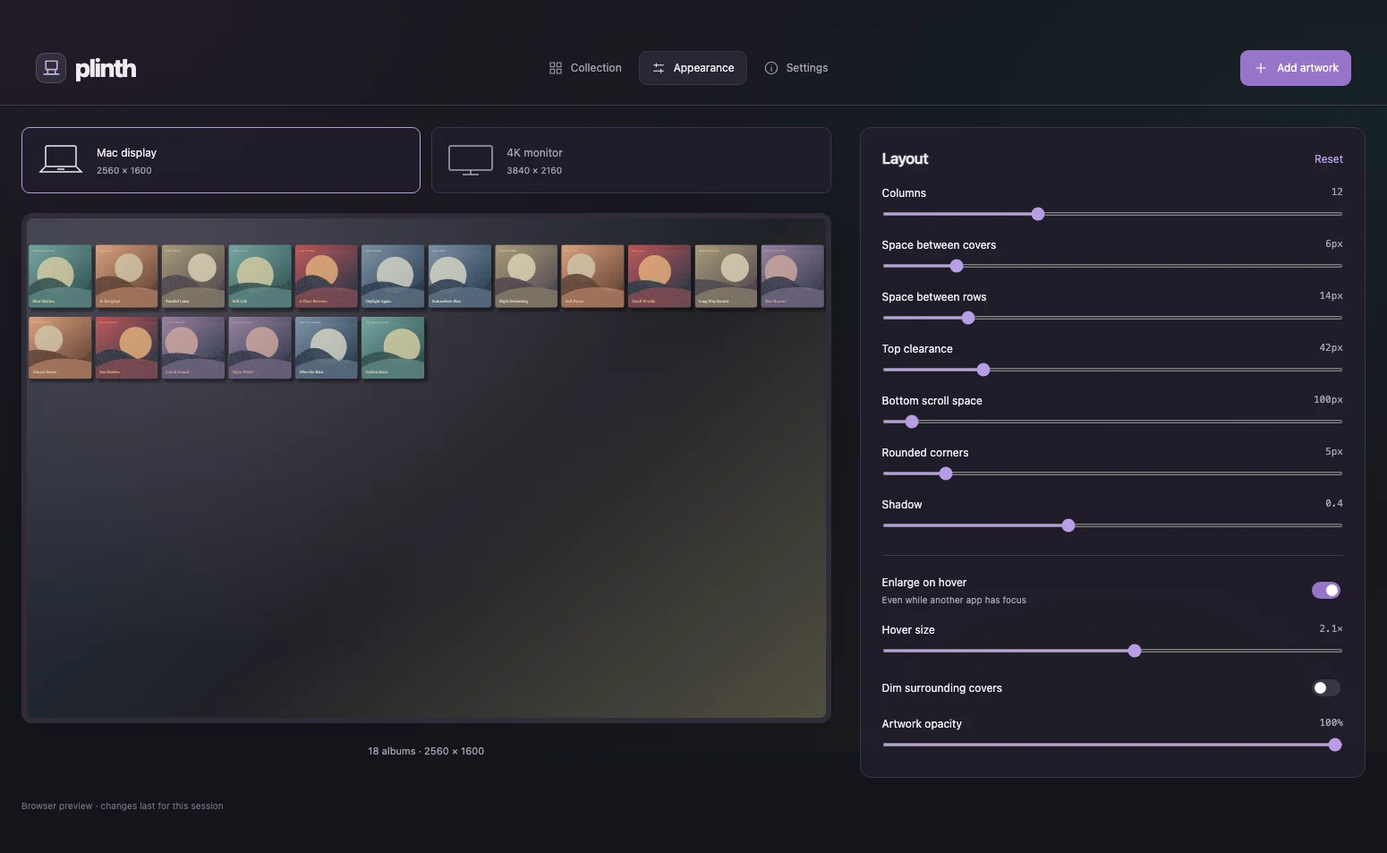
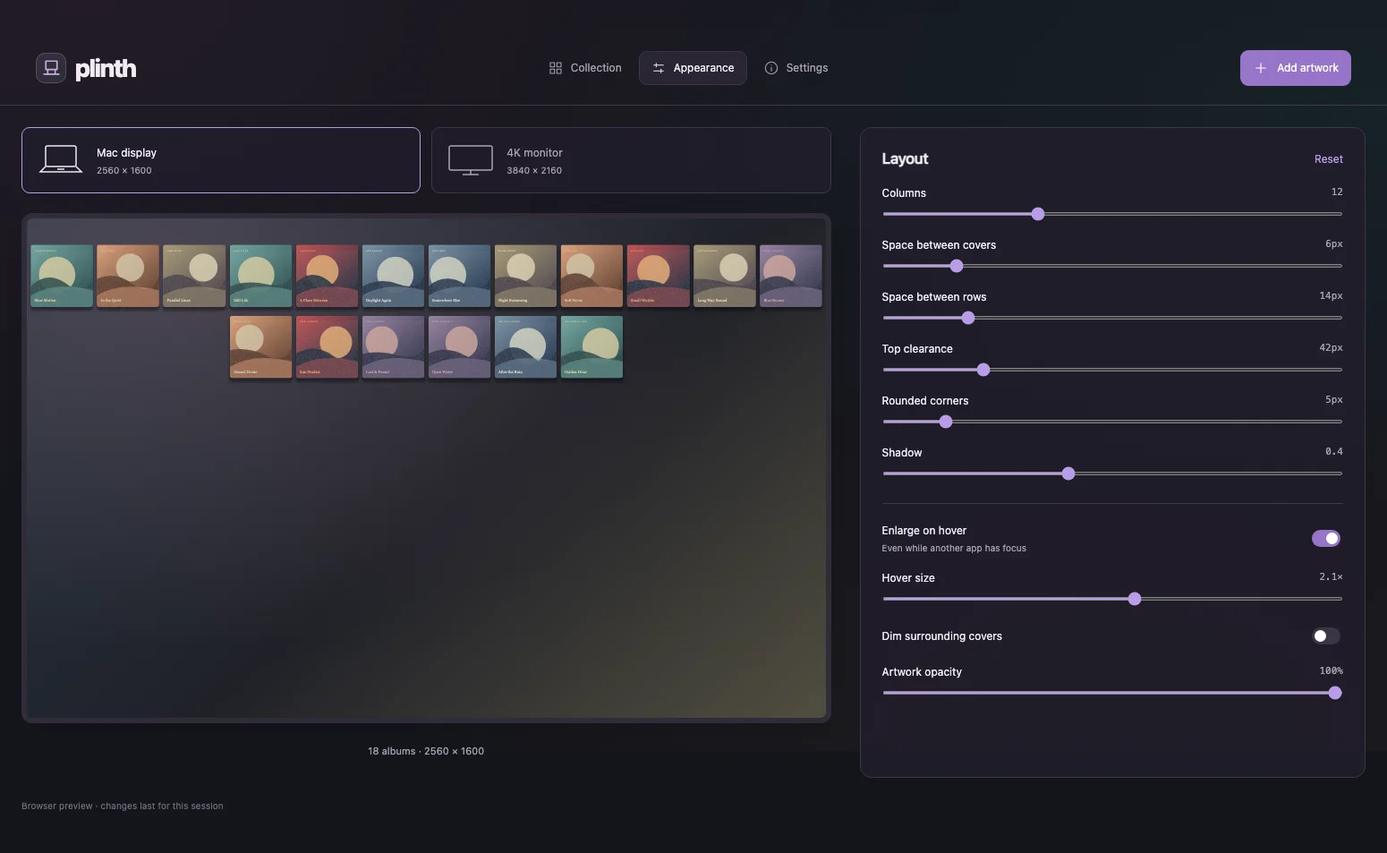
Remove desktop scrolling and center incomplete album rows

diff --git a/src/app.css b/src/app.css
@@ -6,7 +6,7 @@ body{margin:0;background:var(--background);background-attachment:fixed;color:var
 .empty-state{min-height:370px;display:flex;flex-direction:column;align-items:center;justify-content:center;text-align:center;gap:18px}.empty-state .eyebrow{margin:0}.empty-state h2{font-size:25px}.empty-state p{font-size:13px;line-height:1.8;color:var(--muted)}.empty-art{width:64px;height:64px;background:var(--paper);border:1px solid var(--line);border-radius:16px;display:grid;place-items:center;color:var(--accent)}.empty-art svg{width:30px;height:30px}.actions{display:flex;gap:10px}.panel{background:var(--paper);border:1px solid var(--line);border-radius:13px;padding:24px}.panel-heading{display:flex;align-items:center;justify-content:space-between;margin-bottom:21px}.appearance-layout{display:grid;grid-template-columns:minmax(0,1.6fr) minmax(310px,1fr);gap:32px}.preview-column{position:sticky;top:25px;align-self:start}.section-label{display:flex;justify-content:space-between;color:var(--faint);font-size:9px;letter-spacing:1px;margin-bottom:16px}.section-label>span:last-child{letter-spacing:0}.monitor-preview{position:relative;border:6px solid #302c38;border-bottom-width:16px;border-radius:14px;background:radial-gradient(ellipse at 15% 10%,#735c6880,transparent 60%),linear-gradient(140deg,#253543,#202128 55%,#514e40);height:350px;overflow:hidden;box-shadow:0 16px 35px #0002}.preview-menubar{display:flex;gap:8px;align-items:center;font-size:7px;color:#ddd;background:#ffffff0a;height:15px;padding:0 7px}.preview-menubar svg{width:9px;height:9px}.preview-clock{margin-left:auto}.preview-art{display:grid;align-content:start;max-height:calc(100% - 15px);overflow:auto}.preview-art img{width:100%;aspect-ratio:1;object-fit:cover;transition:transform .2s;position:relative}.preview-art img:hover{transform:scale(var(--preview-scale));z-index:10}.preview-empty{font-size:12px;color:#bbb;grid-column:1/-1;padding:80px 0;text-align:center}.preview-dock{position:absolute;bottom:6px;left:50%;transform:translateX(-50%);display:flex;gap:6px;padding:5px 7px;border:1px solid #ffffff22;background:#ffffff18;border-radius:8px;backdrop-filter:blur(12px)}.preview-dock>span{display:block;width:18px;height:18px;border-radius:5px;background:#90b1be88}.preview-dock>span:nth-child(2){background:#b48caf88}.preview-dock>span:nth-child(3){background:#b9b19188}.preview-dock>span:nth-child(4){background:#91b9a988}.monitor-foot{width:100px;height:29px;background:linear-gradient(#302c38,#403b46);margin:0 auto;border-radius:0 0 12px 12px;clip-path:polygon(30% 0,70% 0,77% 82%,100% 90%,100% 100%,0 100%,0 90%,23% 82%)}.preview-note{color:var(--muted);font-size:11px;display:flex;align-items:center;justify-content:center;gap:8px;line-height:1.6;margin:22px 0}.preview-note svg{width:14px;height:14px}.feature-note{display:flex;gap:15px;border-top:1px solid var(--line);padding-top:25px;margin-top:32px;color:var(--muted)}.feature-note>svg{color:var(--accent)}.feature-note strong{font-size:12px;font-weight:500;color:var(--ink)}.feature-note p{font-size:12px;line-height:1.8;margin-top:8px;max-width:390px}.segmented{display:flex;border:1px solid var(--line);border-radius:8px;padding:3px;gap:3px;margin-bottom:9px}.segmented button{flex:1;padding:7px 4px;font-size:11px;border:0;border-radius:5px;color:var(--muted)}.segmented button.chosen{background:var(--paper-strong);color:var(--ink)}.field-note{font-size:11px;color:var(--muted);line-height:1.7}.slider-field{margin-top:20px;gap:9px}.slider-field>span{display:flex;justify-content:space-between;font-size:12px}.slider-field output{font:11px ui-monospace,monospace;color:var(--muted)}input[type=range]{width:100%;height:4px;margin:5px 0;padding:0;accent-color:var(--accent);cursor:pointer}.toggle-row{display:flex;align-items:center;justify-content:space-between;gap:20px;margin-top:22px;font-size:12px}.toggle-row small{display:block;font-size:10px;color:var(--muted);margin-top:6px}.switch{appearance:none;flex:0 0 auto;width:32px;height:19px;border-radius:20px;padding:0;background:var(--line);border:0;position:relative;cursor:pointer}.switch:after{content:'';display:block;width:13px;height:13px;border-radius:50%;background:#fff;position:absolute;top:3px;left:3px;transition:transform .15s}.switch:checked{background:var(--accent-bg)}.switch:checked:after{transform:translateX(13px)}.control-divider{border-top:1px solid var(--line);margin-top:26px}.settings-grid{display:grid;grid-template-columns:1fr 1fr;gap:22px}.settings-panel h2{margin-bottom:12px;font-size:20px}.settings-panel>p.description{font-size:13px;line-height:1.85;color:var(--muted);margin-bottom:24px}.setting-row{display:flex;align-items:center;justify-content:space-between;gap:16px;margin:25px 0}.setting-row select{max-width:60%}.storage-summary{display:flex;gap:45px;margin:24px 0 30px;color:var(--muted);font-size:11px}.storage-summary strong{display:block;font-size:30px;color:var(--ink);font-weight:500;letter-spacing:-1px;margin-bottom:6px}.settings-panel>button{font-size:12px;margin-bottom:15px}.shortcut-row{border-top:1px solid var(--line);padding-top:16px;margin-bottom:20px;display:flex;align-items:center;justify-content:space-between;font-size:12px}
 .banner{margin:15px 44px 0;border:1px solid #cf739066;border-radius:8px;padding:10px 14px;font-size:12px;display:flex;align-items:center;justify-content:space-between;gap:16px}.banner.error{color:var(--danger);background:var(--paper)}.banner>span{white-space:pre-wrap;max-height:140px;overflow:auto}.toast{position:fixed;bottom:24px;left:50%;transform:translateX(-50%);z-index:80;padding:13px 18px;border:1px solid var(--line);border-radius:10px;background:var(--paper-strong);box-shadow:0 10px 40px #0004;display:flex;align-items:center;gap:10px;font-size:12px;max-width:90vw}.toast svg{color:#83c9ac}.drop-overlay{position:fixed;inset:8px;z-index:100;border:2px dashed var(--accent);border-radius:15px;background:#211c2bed;backdrop-filter:blur(15px);display:flex;flex-direction:column;align-items:center;justify-content:center;gap:22px;pointer-events:none}.drop-overlay>svg{width:45px;height:45px;color:var(--accent)}.drop-overlay p{color:var(--muted)}.import-progress{position:fixed;bottom:25px;left:50%;transform:translateX(-50%);z-index:90;background:var(--paper-strong);border:1px solid var(--line);border-radius:10px;padding:15px 22px;font-size:12px;display:flex;gap:12px;align-items:center}.import-progress>span{width:13px;height:13px;border-radius:50%;border:2px solid var(--line);border-top-color:var(--accent);animation:spin 1s linear infinite}@keyframes spin{to{transform:rotate(360deg)}}.visually-hidden{position:absolute;width:1px;height:1px;clip-path:inset(50%);overflow:hidden;white-space:nowrap}
 dialog{width:min(510px,calc(100vw - 40px));padding:26px;border:1px solid var(--line);border-radius:16px;background:var(--paper-strong);color:var(--ink);box-shadow:0 25px 100px #0007;max-height:90vh;overflow:auto}dialog::backdrop{background:#0006;backdrop-filter:blur(8px)}.modal-heading{display:flex;justify-content:space-between;align-items:center;margin-bottom:24px}.editor-top{display:flex;gap:23px;align-items:center;margin-bottom:26px}.editor-top>img{width:130px;height:130px;object-fit:cover;border-radius:7px;box-shadow:0 8px 20px #0003}.editor-top>div{min-width:0}.editor-top h3{font-size:20px;overflow-wrap:anywhere;font-weight:550;letter-spacing:-.4px}.editor-top p{color:var(--muted);font-size:12px;margin:7px 0 18px}dialog form>label{margin:18px 0;position:relative}.two-fields{display:grid;grid-template-columns:1.2fr 1fr;gap:14px}.optional{position:absolute;right:0;color:var(--faint);font-size:10px}.editor-actions{display:flex;align-items:center;justify-content:space-between;border-top:1px solid var(--line);margin-top:24px;padding-top:20px}.danger{color:var(--danger)}
-.desktop-document,.desktop-document body{background:transparent!important;min-width:0;overflow:hidden}.desktop-document #app{height:100vh}.desktop-surface{height:100vh;overflow-y:auto;scrollbar-width:none;background:transparent}.desktop-surface::-webkit-scrollbar{display:none}.desktop-grid{display:grid;grid-template-columns:repeat(var(--columns),minmax(0,1fr));gap:var(--row-gap) var(--gap);padding:var(--top) calc(var(--gap) / 2) var(--bottom);opacity:var(--opacity)}.desktop-cell{position:relative;min-width:0;aspect-ratio:1}.desktop-cover{width:100%;height:100%;display:block;border:0;padding:0;position:relative;box-shadow:4px 5px 4px rgb(0 0 0 / var(--shadow));border-radius:var(--radius);transition:filter .2s;background:none!important}.desktop-cover>img{display:block;width:100%;height:100%;object-fit:cover;border-radius:inherit;pointer-events:none}.desktop-cell:has(.enlarged){z-index:10}.desktop-cover.enlarged{border-radius:0}.desktop-cover.dimmed{filter:brightness(.65)}.desktop-error{position:fixed;bottom:30px;left:50%;transform:translateX(-50%);max-width:600px;background:#24202fec;color:white;padding:15px 22px;border-radius:10px;font-size:12px}
+.desktop-document,.desktop-document body{background:transparent!important;min-width:0;overflow:hidden}.desktop-document #app{height:100vh}.desktop-surface{height:100vh;overflow:clip;background:transparent}.desktop-grid{display:flex;flex-wrap:wrap;justify-content:center;gap:var(--row-gap) var(--gap);padding:var(--top) max(6px,calc(var(--gap) / 2)) 0;opacity:var(--opacity)}.desktop-cell{position:relative;flex:0 0 calc((100% - (var(--columns) - 1)*var(--gap)) / var(--columns));min-width:0;aspect-ratio:1}.desktop-cover{width:100%;height:100%;display:block;border:0;padding:0;position:relative;box-shadow:0 5px 4px rgb(0 0 0 / var(--shadow));border-radius:var(--radius);transition:filter .2s;background:none!important}.desktop-cover>img{display:block;width:100%;height:100%;object-fit:cover;border-radius:inherit;pointer-events:none}.desktop-cell:has(.enlarged){z-index:10}.desktop-cover.enlarged{border-radius:0}.desktop-cover.dimmed{filter:brightness(.65)}.desktop-error{position:fixed;bottom:30px;left:50%;transform:translateX(-50%);max-width:600px;background:#24202fec;color:white;padding:15px 22px;border-radius:10px;font-size:12px}
 @media(min-width:1350px){.album-grid{grid-template-columns:repeat(7,minmax(0,1fr))}}@media(max-width:1000px){header{padding-inline:25px;gap:14px}main{padding:30px 28px 0}.album-grid{grid-template-columns:repeat(5,minmax(0,1fr));gap:24px 18px}h1{font-size:29px}nav button{padding:9px}.appearance-layout{gap:22px;grid-template-columns:minmax(0,1fr) 300px}.monitor-preview{height:280px}}@media(max-width:760px){header{flex-wrap:wrap;height:auto;padding:18px 20px;gap:16px}header nav{order:3;width:100%}nav button{flex:1}.titlebar{padding-left:20px}.local-indicator{display:none}main{padding:28px 20px 0}.page-heading{align-items:start;gap:14px}.status-pill{font-size:0;padding:9px;gap:5px}.status-pill svg{margin:0}.album-grid{grid-template-columns:repeat(3,minmax(0,1fr))}.collection-meta,.search kbd{display:none}.search input{width:100px}.collection-toolbar{gap:10px}.toolbar-right{gap:0}.collection-tabs{gap:0}.import-strip{align-items:start;flex-direction:column}.appearance-layout,.settings-grid{grid-template-columns:1fr}.preview-column{position:static}.monitor-preview{height:320px}footer>span:last-child{display:none}.banner{margin-inline:20px}.album-open{opacity:1}.collection-toolbar select{max-width:85px}.titlebar{display:none}}@media(prefers-reduced-motion:reduce){*,*::before,*::after{transition:none!important;animation:none!important}}
 
 .modal-error{color:var(--danger);font-size:12px;line-height:1.6;margin-bottom:18px;white-space:pre-wrap}

diff --git a/tests/app.spec.ts b/tests/app.spec.ts
@@ -15,7 +15,7 @@ test('collection search, metadata edits, hiding and removal',async({page})=>{
 })
 test('appearance updates preview and theme without errors',async({page})=>{
  await page.goto('/?demo=1');await page.getByRole('button',{name:'Appearance',exact:true}).click()
- const slider=page.getByRole('slider',{name:'Columns',exact:true});await slider.fill('8');await expect(page.locator('.preview-render .desktop-grid')).toHaveCSS('grid-template-columns',/.* /)
+ const slider=page.getByRole('slider',{name:'Columns',exact:true});await slider.fill('8');await expect(page.locator('.preview-render .desktop-grid')).toHaveCSS('--columns','8')
  await expect(page.locator('.slider-field').filter({has:slider}).locator('output')).toHaveText('8')
  await page.getByRole('button',{name:'Settings',exact:true}).click();await page.getByRole('button',{name:'Light',exact:true}).click();await expect(page.locator('html')).toHaveAttribute('data-theme','light')
 })
@@ -88,4 +88,33 @@ test('quit modal defaults to hide and provides keyboard actions without leaking 
  await show();await page.keyboard.press('/');await expect(page.getByRole('button',{name:'Hide window',exact:true})).toBeFocused()
  await page.keyboard.press('Escape')
  await page.keyboard.down('Control');await page.keyboard.down('q');await page.keyboard.down('q');await expect(dialog).toBeVisible();await page.keyboard.up('q');await page.keyboard.up('Control')
+})
+
+test('desktop rows have equal margins, center incomplete rows, and cannot scroll',async({page})=>{
+ for(const width of [1180,1550,2560]) {
+  await page.setViewportSize({width,height:180})
+  await page.goto('/?demo=1&desktop=1')
+  await expect(page.locator('.desktop-cell')).toHaveCount(18)
+  const rows=await page.locator('.desktop-cell').evaluateAll(cells=>{
+   const rows:Record<string,{left:number;right:number;width:number}[]>={}
+   for(const cell of cells){const r=cell.getBoundingClientRect();(rows[r.top]??=[]).push({left:r.left,right:r.right,width:r.width})}
+   return Object.values(rows)
+  })
+  for(const row of rows){expect(Math.abs(row[0].left-(width-row.at(-1)!.right))).toBeLessThan(1);for(const cell of row)expect(cell.width).toBeCloseTo(rows[0][0].width,1)}
+  const surface=page.locator('.desktop-surface')
+  await expect(surface).toHaveCSS('overflow','clip')
+  await page.mouse.move(width/2,100);await page.mouse.wheel(0,600)
+  await surface.evaluate(el=>el.scrollTo(0,600))
+  expect(await surface.evaluate(el=>el.scrollTop)).toBe(0)
+  expect(await page.evaluate(()=>window.scrollY)).toBe(0)
+ }
+ await page.goto('/?demo=1');await page.getByRole('button',{name:'Appearance',exact:true}).click()
+ await expect(page.getByRole('slider',{name:'Bottom scroll space'})).toHaveCount(0)
+ await page.getByRole('slider',{name:'Columns',exact:true}).fill('7')
+ const rows=await page.locator('.preview-render .desktop-cell').evaluateAll(cells=>{
+  const rows:Record<string,DOMRect[]>={};for(const cell of cells){const r=cell.getBoundingClientRect();(rows[r.top]??=[]).push(r)}
+  return Object.values(rows).map(row=>({center:(row[0].left+row.at(-1)!.right)/2,count:row.length}))
+ })
+ expect(rows.map(row=>row.count)).toEqual([7,7,4])
+ for(const row of rows)expect(row.center).toBeCloseTo(rows[0].center,1)
 })

diff --git a/src/App.svelte b/src/App.svelte
@@ -123,7 +123,7 @@
      <div class="preview-render" style={`width:${screen.width}px;height:${screen.height}px;transform:scale(${previewWidth/screen.width})`}><Desktop {library} preview forcedLayout={layout} viewportHeight={screen.height}/></div>
     </div></div><p class="preview-note">{enabled.length} albums · {screen.pixels}</p></section>
     <section class="controls panel"><div class="panel-heading"><h2>Layout</h2><button class="text-button" onclick={resetLayout}>Reset</button></div>
-    {#each [{key:'columns',label:'Columns',min:3,max:30,step:1,unit:''},{key:'gap',label:'Space between covers',min:0,max:40,step:1,unit:'px'},{key:'rowGap',label:'Space between rows',min:0,max:80,step:1,unit:'px'},{key:'top',label:'Top clearance',min:0,max:200,step:1,unit:'px'},{key:'bottom',label:'Bottom scroll space',min:0,max:2000,step:10,unit:'px'},{key:'radius',label:'Rounded corners',min:0,max:40,step:1,unit:'px'},{key:'shadow',label:'Shadow',min:0,max:1,step:.05,unit:''}] as control}<label class="slider-field"><span>{control.label}<output>{layout[control.key as keyof Layout]}{control.unit}</output></span><input type="range" aria-label={control.label} min={control.min} max={control.max} step={control.step} value={layout[control.key as keyof Layout]} oninput={(e)=>changeLayout(control.key as keyof Layout,Number(e.currentTarget.value))}/></label>{/each}
+    {#each [{key:'columns',label:'Columns',min:3,max:30,step:1,unit:''},{key:'gap',label:'Space between covers',min:0,max:40,step:1,unit:'px'},{key:'rowGap',label:'Space between rows',min:0,max:80,step:1,unit:'px'},{key:'top',label:'Top clearance',min:0,max:200,step:1,unit:'px'},{key:'radius',label:'Rounded corners',min:0,max:40,step:1,unit:'px'},{key:'shadow',label:'Shadow',min:0,max:1,step:.05,unit:''}] as control}<label class="slider-field"><span>{control.label}<output>{layout[control.key as keyof Layout]}{control.unit}</output></span><input type="range" aria-label={control.label} min={control.min} max={control.max} step={control.step} value={layout[control.key as keyof Layout]} oninput={(e)=>changeLayout(control.key as keyof Layout,Number(e.currentTarget.value))}/></label>{/each}
     <div class="control-divider"></div><label class="toggle-row"><span>Enlarge on hover<small>Even while another app has focus</small></span><input class="switch" type="checkbox" bind:checked={settings.hoverEnabled} onchange={persist}/></label><label class="slider-field"><span>Hover size<output>{settings.hoverScale.toFixed(1)}×</output></span><input aria-label="Hover size" type="range" min="1" max="3" step=".1" bind:value={settings.hoverScale} oninput={persist}/></label><label class="toggle-row"><span>Dim surrounding covers</span><input class="switch" type="checkbox" bind:checked={settings.dimOthers} onchange={persist}/></label><label class="slider-field"><span>Artwork opacity<output>{Math.round(settings.opacity*100)}%</output></span><input aria-label="Artwork opacity" type="range" min=".1" max="1" step=".05" bind:value={settings.opacity} oninput={persist}/></label></section></div>
    {:else}
     <section class="panel settings-compact" aria-label="Settings">

diff --git a/src/lib/Desktop.svelte b/src/lib/Desktop.svelte
@@ -12,12 +12,10 @@
  let hovered=''
  let grid:HTMLDivElement
  let error=''
- let lastPointer={x:0,y:0,visible:false}
  $: settings=library.settings
  $: layout=forcedLayout??(width>1900?settings.wideLayout:settings.layout)
  $: albums=ordered(library.albums.filter(a=>a.enabled),settings.sort,settings.shuffleSeed)
  function hoverAt(x:number,y:number,visible:boolean) {
-  lastPointer={x,y,visible}
   if(!visible || !settings.hoverEnabled) {hovered='';return}
   // Use the unscaled grid cells so enlarged artwork does not shift the hit target.
   const items=grid?.querySelectorAll<HTMLElement>('.desktop-cell')??[]
@@ -28,8 +26,8 @@
  onMount(()=>{let dispose=()=>{};let alive=true;if(native&&!preview) listen<{x:number;y:number;visible:boolean}>('desktop-pointer',e=>hoverAt(e.payload.x,e.payload.y,e.payload.visible)).then(fn=>{if(alive)dispose=fn;else fn()});return ()=>{alive=false;dispose()}})
 </script>
 <svelte:window bind:innerWidth={width}/>
-<div class="desktop-surface" style:height={viewportHeight?`${viewportHeight}px`:undefined} onscroll={()=>hoverAt(lastPointer.x,lastPointer.y,lastPointer.visible)} onpointermove={(e)=>{if(!native||preview)hoverAt(e.clientX,e.clientY,true)}} onpointerleave={()=>{if(!native||preview)hovered=''}} role="presentation">
- <div class="desktop-grid" bind:this={grid} style={`--columns:${layout.columns};--gap:${layout.gap}px;--row-gap:${layout.rowGap}px;--top:${layout.top}px;--bottom:${layout.bottom}px;--radius:${layout.radius}px;--shadow:${layout.shadow};--scale:${settings.hoverScale};--opacity:${settings.opacity}`}>
+<div class="desktop-surface" style:height={viewportHeight?`${viewportHeight}px`:undefined} onpointermove={(e)=>{if(!native||preview)hoverAt(e.clientX,e.clientY,true)}} onpointerleave={()=>{if(!native||preview)hovered=''}} role="presentation">
+ <div class="desktop-grid" bind:this={grid} style={`--columns:${layout.columns};--gap:${layout.gap}px;--row-gap:${layout.rowGap}px;--top:${layout.top}px;--radius:${layout.radius}px;--shadow:${layout.shadow};--scale:${settings.hoverScale};--opacity:${settings.opacity}`}>
  {#each albums as album (album.id)}
   <div class="desktop-cell" data-id={album.id}>
    <button use:swingScale={{active:hovered===album.id&&settings.hoverEnabled,factor:settings.hoverScale}} class:enlarged={hovered===album.id} class:dimmed={settings.dimOthers&&hovered!==''&&hovered!==album.id} class="desktop-cover" onclick={()=>open(album.id)} onfocus={()=>hovered=album.id} onblur={()=>hovered=''} aria-label={`Open ${album.title} by ${album.artist}`} title={`${album.artist} — ${album.title}`}><img src={coverUrl(album)} alt={album.title} draggable="false"/></button>

diff --git a/src/lib/types.ts b/src/lib/types.ts
@@ -1,8 +1,8 @@
 export interface Album { id: string; title: string; artist: string; date: string; url: string; cover: string; original: string; enabled: boolean }
-export interface Layout { columns: number; gap: number; rowGap: number; top: number; bottom: number; radius: number; shadow: number }
+export interface Layout { columns: number; gap: number; rowGap: number; top: number; radius: number; shadow: number }
 export interface Settings { layout: Layout; wideLayout: Layout; hoverScale: number; hoverEnabled: boolean; dimOthers: boolean; opacity: number; sort: string; shuffleSeed: number; theme: string; desktopEnabled: boolean; openMode: string }
 export interface Library { albums: Album[]; settings: Settings }
-export const defaultLayout: Layout = { columns: 12, gap: 6, rowGap: 14, top: 42, bottom: 100, radius: 5, shadow: .4 }
+export const defaultLayout: Layout = { columns: 12, gap: 6, rowGap: 14, top: 42, radius: 5, shadow: .4 }
 export const defaultSettings: Settings = { layout: {...defaultLayout}, wideLayout: {...defaultLayout, columns: 18}, hoverScale: 2.1, hoverEnabled: true, dimOthers: false, opacity: 1, sort: 'artist', shuffleSeed:0, theme: 'dark', desktopEnabled: true, openMode: 'library' }
 function shuffleRank(id:string,seed:number){let h=seed^2166136261;for(let i=0;i<id.length;i++){h=Math.imul(h^id.charCodeAt(i),16777619)}h=Math.imul(h^(h>>>16),2246822507);h=Math.imul(h^(h>>>13),3266489909);return (h^(h>>>16))>>>0}
 export function ordered(albums: Album[], sort: string, seed=0) { return [...albums].sort((a,b) => sort === 'shuffle' ? shuffleRank(a.id,seed)-shuffleRank(b.id,seed) : sort === 'date' ? b.date.localeCompare(a.date) : sort === 'oldest' ? a.date.localeCompare(b.date) : sort === 'title' ? a.title.localeCompare(b.title) : a.artist.localeCompare(b.artist) || a.date.localeCompare(b.date) || a.title.localeCompare(b.title)) }

diff --git a/src-tauri/src/library.rs b/src-tauri/src/library.rs
@@ -24,7 +24,6 @@ pub struct Layout {
     pub gap: f64,
     pub row_gap: f64,
     pub top: f64,
-    pub bottom: f64,
     pub radius: f64,
     pub shadow: f64,
 }
@@ -35,7 +34,6 @@ impl Default for Layout {
             gap: 6.,
             row_gap: 14.,
             top: 42.,
-            bottom: 100.,
             radius: 5.,
             shadow: 0.4,
         }
@@ -257,13 +255,12 @@ pub fn replace_artwork(
 pub fn validate_settings(s: &Settings) -> Result<(), String> {
     for l in [&s.layout, &s.wide_layout] {
         if !(3..=30).contains(&l.columns)
-            || ![l.gap, l.row_gap, l.top, l.bottom, l.radius, l.shadow]
+            || ![l.gap, l.row_gap, l.top, l.radius, l.shadow]
                 .iter()
                 .all(|v| v.is_finite() && *v >= 0.)
             || l.gap > 40.
             || l.row_gap > 80.
             || l.top > 200.
-            || l.bottom > 2000.
             || l.radius > 40.
             || l.shadow > 1.
         {
@@ -330,6 +327,20 @@ mod tests {
         assert!(dir.join("originals").join(old.original).exists());
         assert_eq!(load(&dir).unwrap().albums.len(), 1);
         fs::remove_dir_all(dir).unwrap();
+    }
+    #[test]
+    fn legacy_bottom_spacing_is_ignored_on_load_and_removed_on_save() {
+        let settings: Settings = serde_json::from_value(serde_json::json!({
+            "layout": {"columns": 9, "bottom": 1800},
+            "wideLayout": {"columns": 20, "bottom": 2000}
+        }))
+        .unwrap();
+        assert_eq!(settings.layout.columns, 9);
+        assert_eq!(settings.wide_layout.columns, 20);
+        assert!(validate_settings(&settings).is_ok());
+        let saved = serde_json::to_value(&settings).unwrap();
+        assert!(saved["layout"].get("bottom").is_none());
+        assert!(saved["wideLayout"].get("bottom").is_none());
     }
     #[test]
     fn invalid_settings_rejected() {

diff --git a/README.md b/README.md
@@ -9,7 +9,7 @@ Plinth is a macOS menu bar app that turns your album artwork into an interactive
 ## What it does
 
 - **Drop artwork in.** Import individual images. Plinth preserves originals, creates optimized JPEGs up to 1200 px, and skips exact duplicates. PNG, JPEG, WebP, GIF (first frame), TIFF, and BMP are supported.
-- **Make it yours.** Change columns, spacing, top clearance, scroll space, corner radius, shadow, opacity, hover size, and ordering in the UI. Sort by artist, title, newest date, oldest date, or shuffle; choosing Shuffled again creates a new order. Choose a Mac display or 4K monitor preview with the actual display proportions and a separate layout for each.
+- **Make it yours.** Change columns, spacing, top clearance, corner radius, shadow, opacity, hover size, and ordering in the UI. Sort by artist, title, newest date, oldest date, or shuffle; choosing Shuffled again creates a new order. Choose a Mac display or 4K monitor preview with the actual display proportions and a separate layout for each.
 - **Keep your music close.** Click a desktop cover to reveal its album in Apple Music, or open its saved HTTPS link. Edit titles, artists, release dates, links, and desktop visibility in the collection. The editor shows large original artwork, with download and replace controls that fade in on hover; drop a single image onto it to replace it. The collection and desktop use optimized copies.
 - **Hover without switching apps.** Native macOS pointer tracking enlarges covers over exposed desktop areas while another app retains focus. Covers stay behind normal windows; moving over another window clears the hover.
 - **Stay in the menu bar.** Plinth appears in the Dock while its window is open. Closing the window or pressing Command-W hides it and keeps the desktop running. Command-Q opens a dialog with Hide window selected by default (Return or Command-W), Quit Plinth (Command-Q), and Cancel (Escape). Left-click the menu bar icon to open Plinth. Right-click for Open Plinth, Hide desktop / Show desktop, and Quit Plinth.
@@ -29,7 +29,7 @@ Launch `Plinth.app`, choose **Add artwork**, or drop image files into the librar
 
 Missing albums show a native macOS alert. The first Music action may ask for macOS Automation permission. Library mode searches album titles in your local Music library; link mode opens the URL you saved. No Apple Music API credentials are needed.
 
-The desktop is a transparent native window above the wallpaper and desktop icons, below ordinary windows. It can receive clicks and scrolling. Covers enlarge without activating Plinth; this does not draw over your foreground apps. Restart Plinth after changing monitor arrangements. Add Plinth in **System Settings → General → Login Items** if you want it to start at login.
+The desktop is a transparent native window above the wallpaper and desktop icons, below ordinary windows. It receives clicks and does not scroll. Incomplete rows are centered; use the Columns setting to fit more covers on screen. Covers enlarge without activating Plinth; this does not draw over your foreground apps. Restart Plinth after changing monitor arrangements. Add Plinth in **System Settings → General → Login Items** if you want it to start at login.
 
 Option-Q and Option-W move to the previous or next page, wrapping at either end. Window size is remembered when you close or quit; new installations open at 1550 × 840 points.
 
